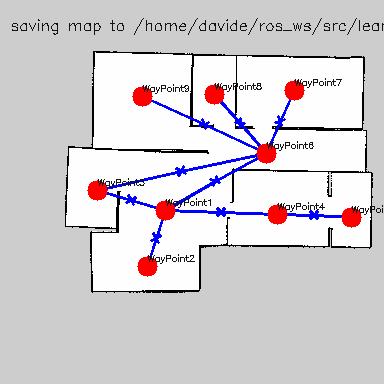
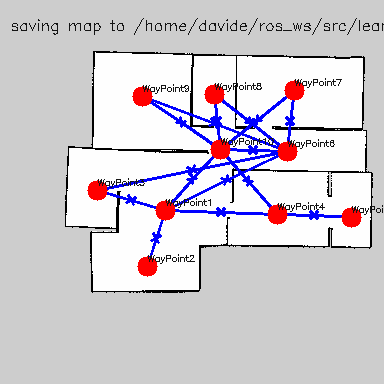
patrol strategy changed
visitare un nodo ha un costo: verrano visitati solo i goal finali

Changed region(s): [[0.375, 0.25, 0.8125, 0.5312], [0.8438, 0.3438, 0.875, 0.375]]

diff --git a/src/learning/learning_toponav/scripts/topoplanner.py b/src/learning/learning_toponav/scripts/topoplanner.py
@@ -86,6 +86,7 @@ class Planner(object):
             state=msg.state,
             c_goal=msg.current_goal,
             l_goal=msg.latest_goal,
+            final_goal=msg.final_goal,
             aff=msg.afference,
             dist=msg.distance
         )
@@ -95,6 +96,7 @@ class Planner(object):
                 r.state = temp.state
                 r.current_goal = temp.current_goal
                 r.latest_goal = temp.latest_goal
+                r.final_goal = temp.final_goal
                 r.afference = temp.afference
                 r.distance = temp.distance
 
@@ -105,39 +107,25 @@ class Planner(object):
         
     def debug(self):
         # crash test
-        # # start_1 = 'WayPoint2'; goal_1 = 'WayPoint1'
-        # # start_2 = 'WayPoint1'; goal_2 = 'WayPoint2'
-        # start_1 = 'WayPoint2'; goal_1 = 'WayPoint4'
-        # start_2 = 'WayPoint1'; goal_2 = 'WayPoint7'
-        #
-        # path_rbt1 = self.find_path(start_1, goal_1)
-        # path_rbt2 = self.find_path(start_2, goal_2)
-        #
-        # tp_rbt1 = self.build_topopath(path_rbt1)
-        # tp_rbt2 = self.build_topopath(path_rbt2)
-        #
-        # while not self.available_robots:
-        #     rospy.sleep(1)
-        #
-        # self.publish_path(tp_rbt1, '/robot_1')
-        # self.publish_path(tp_rbt2, '/robot_2')
-        #
-        # rospy.loginfo('Goal debug consegnati')
-        #
-        # rospy.spin()
-        start = "WayPoint2"
-        goal = "WayPoint8"
-        
-        path = self.find_path(start, goal)
-        self.set_estim_idlenesses('/robot_1', path)
-        tppath = self.build_topopath(path)
-        
+        # start_1 = 'WayPoint2'; goal_1 = 'WayPoint1'
+        # start_2 = 'WayPoint1'; goal_2 = 'WayPoint2'
+        start_1 = 'WayPoint2'; goal_1 = 'WayPoint4'
+        start_2 = 'WayPoint1'; goal_2 = 'WayPoint7'
+
+        path_rbt1 = self.find_path(start_1, goal_1)
+        path_rbt2 = self.find_path(start_2, goal_2)
+
+        tp_rbt1 = self.build_topopath(path_rbt1)
+        tp_rbt2 = self.build_topopath(path_rbt2)
+
         while not self.available_robots:
             rospy.sleep(1)
-            
-        self.publish_path(tppath, '/robot_1')
-        
-        rospy.loginfo('Goal debug consegnato')
+
+        self.publish_path(tp_rbt1, '/robot_1')
+        self.publish_path(tp_rbt2, '/robot_2')
+
+        rospy.loginfo('Goal debug consegnati')
+
         rospy.spin()
 
     def _get_node_by_name(self, name):
@@ -192,22 +180,23 @@ class Planner(object):
             while not rospy.is_shutdown():
                 current_goals = []
                 latest_goals = []
+                final_goals = []
                 for r in self.robots:
                     current_goals.append(r.current_goal)
                     latest_goals.append(r.latest_goal)
+                    final_goals.append(r.final_goal)
                     
-                # TODO: fix
                 for d in self.destinations:
                     updated = False
-                    for c_goal in current_goals:
-                        if c_goal != 'None' and d.name == c_goal:
+                    for f_goal in final_goals:
+                        if f_goal != 'None' and d.name == f_goal:
                             d.available = False
                             updated = True
                             break
                        
                     if not updated:  # updated means that destination found a match in previous iteration
                         for l_goal in latest_goals:
-                            if l_goal != 'None' and d.name == l_goal and l_goal not in current_goals:  # <-- avoids conflict
+                            if l_goal != 'None' and d.name == l_goal and l_goal not in final_goals:  # <-- avoids conflict
                                 d.available = True
                                 
                                 if d in self.occupied_dests:
@@ -239,12 +228,15 @@ class Planner(object):
                 else:
                     robot = self.available_robots.pop(0)
                     self.temp_busy.append(robot)
-                    source = robot.afference
+                    
+                    source = self._get_node_by_name(robot.afference)
                     dest = self.choose_destination(robot.ns, source)
-                    path = self.find_path(source=source, dest=dest.name)
+                    dest.estim_idl = self.estimate_idleness(robot.ns, source, dest)
+                    self.log("%s -> %s estim: %s" % (source.name, dest.name, dest.estim_idl), 'blue')
+                    
+                    path = self.find_path(source=source.name, dest=dest.name)
                     topopath = self.build_topopath(path)
                     
-                    self.set_estim_idlenesses(robot_ns=robot.ns, path=path)
                     self.publish_path(topopath, robot.ns)
                     self.log('%s: %s -> %s' % (robot.ns, source, dest.name), 'red')
                     self.temp_busy.remove(robot)
@@ -254,17 +246,16 @@ class Planner(object):
     def choose_destination(self, robot_ns, src):
         """
         :param (str) robot_ns: ns the robot
-        :param (str) src: afference of the robot
+        :param (Destination) src: afference of the robot
         :return: (Destination) destination
         """
-        source = self._get_node_by_name(src)
         curr_idl = -1
         selected = []
         
         for d in self.destinations:
             if (
                 d.available and
-                d.name != src and
+                d.name != src.name and
                 d.get_true_idleness() >= curr_idl and
                 d not in self.occupied_dests
             ):
@@ -272,16 +263,9 @@ class Planner(object):
                 curr_idl = d.get_true_idleness()
         
         dest = random.choice(selected)
-        # dest.available = False
         self.occupied_dests.append(dest)
+        
         return dest
-    
-    def set_estim_idlenesses(self, robot_ns, path):
-        for i in range(1, len(path)):
-            A = self._get_node_by_name(path[i-1])
-            B = self._get_node_by_name(path[i])
-            
-            B.estim_idl = self.estimate_idleness(robot_ns, source=A, dest=B)
     
     def estimate_idleness(self, robot_ns, source, dest):
         make_plan_topic = robot_ns + self.yaml['make_plan']

diff --git a/src/learning/learning_toponav/scripts/robot.py b/src/learning/learning_toponav/scripts/robot.py
@@ -6,7 +6,7 @@ sys.path.append(path)
 
 
 class Robot(object):
-    def __init__(self, ns=None, color=None, state=None, c_goal=None, l_goal=None, aff=None, dist=None):
+    def __init__(self, ns=None, color=None, state=None, c_goal=None, l_goal=None, final_goal=None, aff=None, dist=None):
         if not ns or ns == '':
             raise Exception('Robot is being created without a valid namespace')
         else:
@@ -15,6 +15,7 @@ class Robot(object):
             self.state = state
             self.current_goal = c_goal
             self.latest_goal = l_goal
+            self.final_goal = final_goal
             self.afference = aff
             self.distance = dist
         
@@ -25,12 +26,13 @@ class Robot(object):
     State = %s
     Current goal = %s
     Latest goal = %s
+    Final goal = %s
     Ipoint afference = %s
     Distance to afference = %s
     -------------------''' % (
         self.ns, self.color, self.state,
         self.current_goal, self.latest_goal,
-        self.afference, self.distance
+        self.final_goal, self.afference, self.distance
     )
         return s
     

diff --git a/src/learning/learning_toponav/scripts/toponavigator.py b/src/learning/learning_toponav/scripts/toponavigator.py
@@ -71,6 +71,11 @@ class Toponavigator(object):
                     msg.current_goal = 'None'
                 else:
                     msg.current_goal = self.robot.current_goal.name
+                    
+                if self.robot.final_goal is None:
+                    msg.final_goal = 'None'
+                else:
+                    msg.final_goal = self.robot.final_goal.name
 
                 self.state_publisher.publish(msg)
                 rate.sleep()
@@ -79,6 +84,7 @@ class Toponavigator(object):
     
     def on_topopath(self, path):
         self.robot.state = self.BUSY
+        self.robot.final_goal = path.path[-1]
         while self.movebase_goal_pub.get_num_connections() < 1:
             rospy.sleep(0.1)
         
@@ -94,7 +100,8 @@ class Toponavigator(object):
         
         print colored('%s: end goal reached' % self.robot.ns, 'green')
         self.robot.state = self.READY
-    
+        self.robot.final_goal = None
+
     def on_amcl(self, amcl_pose):
         # -- distance-to-goal calc
         amcl_posit = amcl_pose.pose.pose.position

diff --git a/src/learning/learning_toponav/scripts/destination.py b/src/learning/learning_toponav/scripts/destination.py
@@ -195,7 +195,7 @@ class IdlenessLogger(object):
         
         total_visits = 0
         means = []
-        for d in sorted(self.dest_list, key=lambda dest: dest.name):
+        for d in sorted(self.dest_list, key=lambda dest: dest.name):  # TODO: viene sortato male (1, 10, 2...)
             d.force_shutdown()
     
             idlenesses = d.get_stats()
